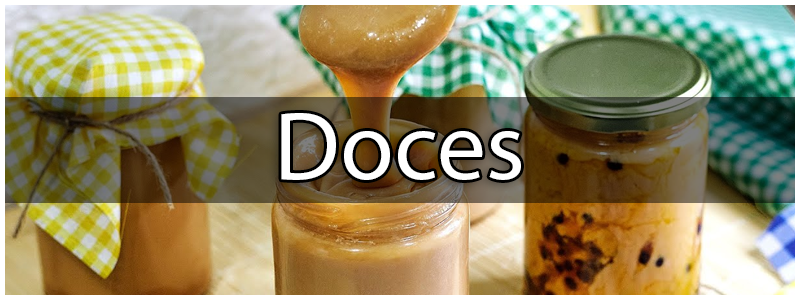
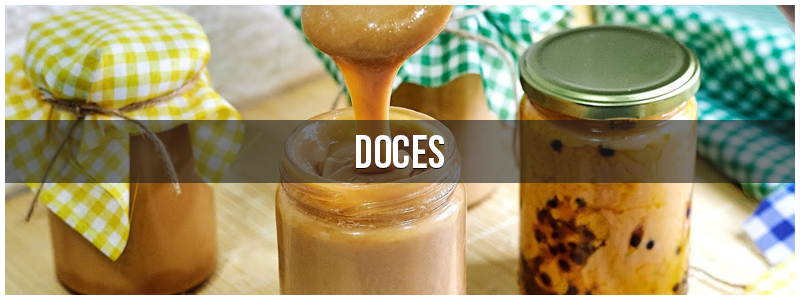
Novas imagens e testes

diff --git a/doce.html b/doce.html
@@ -15,7 +15,7 @@
 <body>
     <nav class="navbar navbar-expand-lg bg-body-tertiary">
         <div class="container-fluid">
-          <img src="img/armazem-icon2.png" alt="Armazem Icon" width="50px">
+          <a href="index.html"><img src="img/armazem-icon2.png" alt="Armazem Icon" width="50px"></a>
           <button class="navbar-toggler" type="button" data-bs-toggle="collapse" data-bs-target="#navbarNav" aria-controls="navbarNav" aria-expanded="false" aria-label="Toggle navigation">
             <span class="navbar-toggler-icon"></span>
           </button>
@@ -44,10 +44,10 @@
       <div class="corpo">
         <div class="titulo">
             <h1>Doces</h1>
-            <p class="subtitulo">Produzidos na região de <a href="..." target="_blank">...</a></p>
-            
+            <p class="subtitulo2">Produzidos na região de <a href="..." target="_blank">...</a></p>
+            <img class="peça-whatsapp" src="img/peça-whatsapp.png" alt="Peça agora pelo Whatsapp">
             <div class="row">
-                <div class="col-lg-3 col-sm-16">
+                <div class="col-lg-4 col-sm-12">
                     <div class="card" style="width: 18rem;">
                         <img src="img/doce-teste.png" class="card-img-top" alt="...">
                         <div class="card-body">
@@ -58,7 +58,7 @@
                     </div>
                 </div>
     
-                <div class="col-lg-3 col-sm-16">
+                <div class="col-lg-4 col-sm-12">
                     <div class="card" style="width: 18rem;">
                         <img src="img/doce-teste.png" class="card-img-top" alt="...">
                         <div class="card-body">
@@ -69,7 +69,7 @@
                     </div>
                 </div>
     
-                <div class="col-lg-3 col-sm-16">
+                <div class="col-lg-4 col-sm-12">
                   <div class="card" style="width: 18rem;">
                       <img src="img/doce-teste.png" class="card-img-top" alt="...">
                       <div class="card-body">
@@ -80,7 +80,7 @@
                   </div>
               </div>
 
-              <div class="col-lg-3 col-sm-6">
+              <div class="col-lg-4 col-sm-12">
                 <div class="card" style="width: 18rem;">
                     <img src="img/doce-teste.png" class="card-img-top" alt="...">
                     <div class="card-body">

diff --git a/produtos.html b/produtos.html
@@ -16,7 +16,7 @@
 <body>
     <nav class="navbar navbar-expand-lg bg-body-tertiary">
         <div class="container-fluid">
-          <img src="img/armazem-icon2.png" alt="Armazem Icon" width="50px">
+          <a href="index.html"><img src="img/armazem-icon2.png" alt="Armazem Icon" width="50px"></a>
           <button class="navbar-toggler" type="button" data-bs-toggle="collapse" data-bs-target="#navbarNav" aria-controls="navbarNav" aria-expanded="false" aria-label="Toggle navigation">
             <span class="navbar-toggler-icon"></span>
           </button>
@@ -50,16 +50,6 @@
     <a href="cachaca.html" id="link-cachaca"><img class="cachaça-produto img-fluid" src="img/cachaça-produtos.png"></a>
 
     <a href="doce.html"><img class="doce-produto img-fluid" src="img/doces-produtos.png"></a>
-
-        <!-- Modal
-        <div id="modal-confirmacao-idade" class="modal">
-          <div class="modal-content">
-            <h4>Confirme sua idade</h4>
-            <p>Você tem mais de 18 anos?</p>
-            <input type="number" id="idade" placeholder="Digite sua idade">
-            <button id="confirmar-idade">Confirmar</button>
-          </div>
-        </div> -->
 
         <div id="modal-confirmacao-idade" class="modal" tabindex="-1" role="dialog">
           <div class="modal-dialog" role="document">

diff --git a/cachaca.html b/cachaca.html
@@ -15,7 +15,7 @@
 <body>
     <nav class="navbar navbar-expand-lg bg-body-tertiary">
         <div class="container-fluid">
-          <img src="img/armazem-icon2.png" alt="Armazem Icon" width="50px">
+          <a href="index.html"><img src="img/armazem-icon2.png" alt="Armazem Icon" width="50px"></a>
           <button class="navbar-toggler" type="button" data-bs-toggle="collapse" data-bs-target="#navbarNav" aria-controls="navbarNav" aria-expanded="false" aria-label="Toggle navigation">
             <span class="navbar-toggler-icon"></span>
           </button>
@@ -44,7 +44,7 @@
       <div class="corpo">
         <div class="titulo">
             <h1>Cachaças</h1>
-            <p class="subtitulo">Produzidas na região de <a href="https://pt.wikipedia.org/wiki/Tocantins_(Minas_Gerais)" target="_blank">Tocantins - MG</a></p>
+            <p class="subtitulo2">Produzidas na região de <a href="https://pt.wikipedia.org/wiki/Tocantins_(Minas_Gerais)" target="_blank">Tocantins - MG</a></p>
             <img class="peça-whatsapp" src="img/peça-whatsapp.png" alt="Peça agora pelo Whatsapp">
             <div class="row">
                 <div class="col-lg-4">

diff --git a/style.css b/style.css
@@ -88,6 +88,7 @@ body {
 }
 
 .texto {
+    padding-top: 2em;
     color: white;
     text-align: center;
     max-width: 60%;
@@ -100,12 +101,12 @@ body {
 }
 
 .titulo-carrossel {
-    font-size: 28px;
+    font-size: 2em;
     text-shadow: 1px 1px black;
 }
 
 .subtitulo-carrossel {
-    font-size: 16px;
+    font-size: 1.2em;
     text-shadow: 1px 1px black;
 }
 
@@ -160,7 +161,20 @@ footer p:last-child {
 .peça-whatsapp {
     width: 50vh;
     padding-bottom: 2em;
+}
 
+.subtitulo2 {
+    color: white;
+    text-align: center;
+    font-size: 17px;
+    font-family: 'Poppins';
+    margin-bottom: 0;
+    text-decoration: none;
+}
+
+.subtitulo2 a {
+    color: white;
+    text-decoration: underline;
 }
 
 .doce-produto {

diff --git a/index.html b/index.html
@@ -18,7 +18,7 @@
 <body>
     <nav class="navbar navbar-expand-lg bg-body-tertiary">
         <div class="container-fluid">
-          <img src="img/armazem-icon2.png" alt="Armazem Icon" width="50px">
+          <a href="#"><img src="img/armazem-icon2.png" alt="Armazem Icon" width="50px"></a>
           <button class="navbar-toggler" type="button" data-bs-toggle="collapse" data-bs-target="#navbarNav" aria-controls="navbarNav" aria-expanded="false" aria-label="Toggle navigation">
             <span class="navbar-toggler-icon"></span>
           </button>

diff --git a/javascript.js b/javascript.js
@@ -14,10 +14,8 @@ document.addEventListener('DOMContentLoaded', function() {
       
       document.getElementById('btnNao').addEventListener('click', function() {
         // O usuário confirmou que não tem mais de 18 anos.
-        window.location.href = "index.html";
-        modal.style.display = 'none';
         alert("Desculpe, você deve ter pelo menos 18 anos para acessar esta página.");
-
+        window.location.href = "index.html";
       });
 });
 
